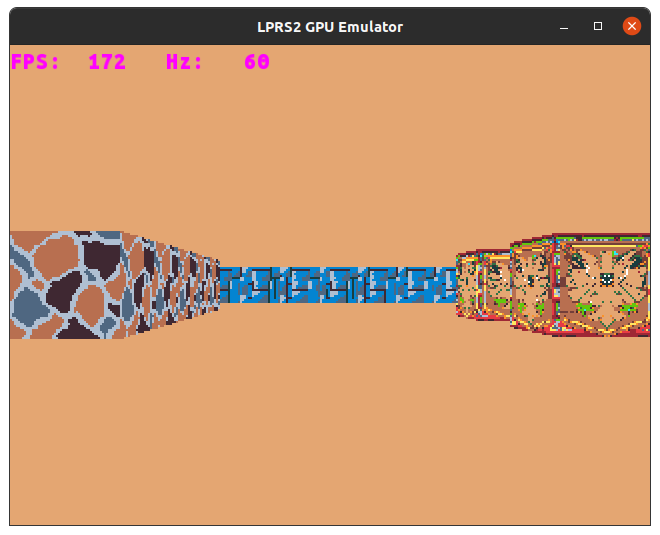
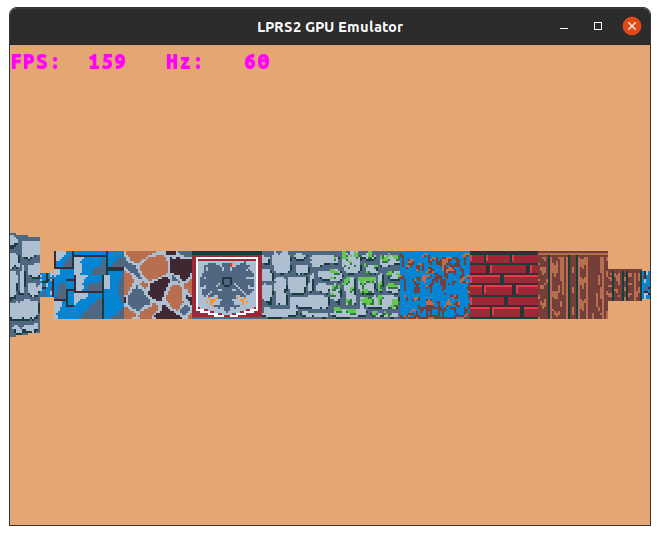
Add comments and proof of concept picture

Changed region(s): [[0.0, 0.4187, 1.0, 0.6579], [0.1515, 0.0897, 0.1818, 0.1495]]

diff --git a/renderer.c b/renderer.c
@@ -1,5 +1,9 @@
 #include "renderer.h"
 
+
+
+///////////////////////////////////////////////////////////////////////////////
+// Draws whole sprite at the given location:
 void draw_sprite(uint32_t* src_p, uint16_t src_w, uint16_t src_h, uint16_t dst_x, uint16_t dst_y) {
     // Prodje kroz region na ekranu na kom treba biti iscrtano, i za svaki piksel nadje vrednost
     for(uint16_t x = 0; x < src_w; x++){ 
@@ -15,6 +19,8 @@ void draw_sprite(uint32_t* src_p, uint16_t src_w, uint16_t src_h, uint16_t dst_x
 }
 
 
+///////////////////////////////////////////////////////////////////////////////
+// Initialization and setup of the renderer data
 void renderer_init() {
     // Setup
 	gpu_p32[0] = INDEX_MODE;
@@ -25,7 +31,8 @@ void renderer_init() {
     for(int i = 0; i < 16; i++){
         palette_p32[i] = palette[i];
     }
-	gpu_p32[0x800] = 0x00ff00ff;    // Magenta for HUD.
+    // Green for HUD
+	gpu_p32[0x800] = 0x0000FF00;
 }
 
 void renderer_render(camera_t* camera) {

diff --git a/project.c b/project.c
@@ -5,11 +5,11 @@ int main(void) {
     renderer_init();
 	player_init();
 	
+	// TODO: add main menu here
+
 	while(1){
 		player_update();
         renderer_render(&playerCamera);
-        // Draw an example image over everything just to test how it works
-        //draw_sprite(images[0], 64, 64, 30, 30);
 	}
 	return 0;
 }
